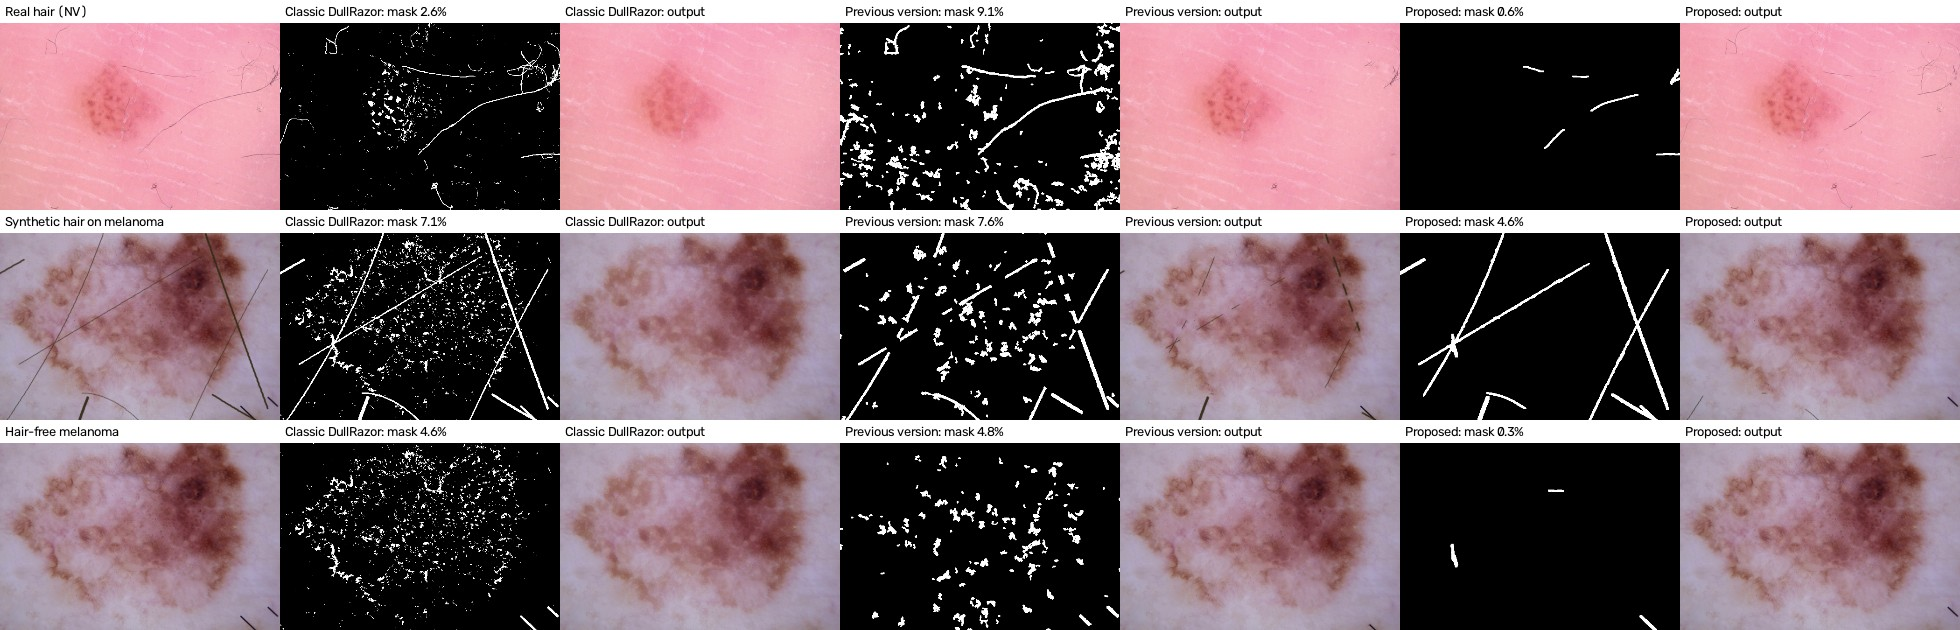
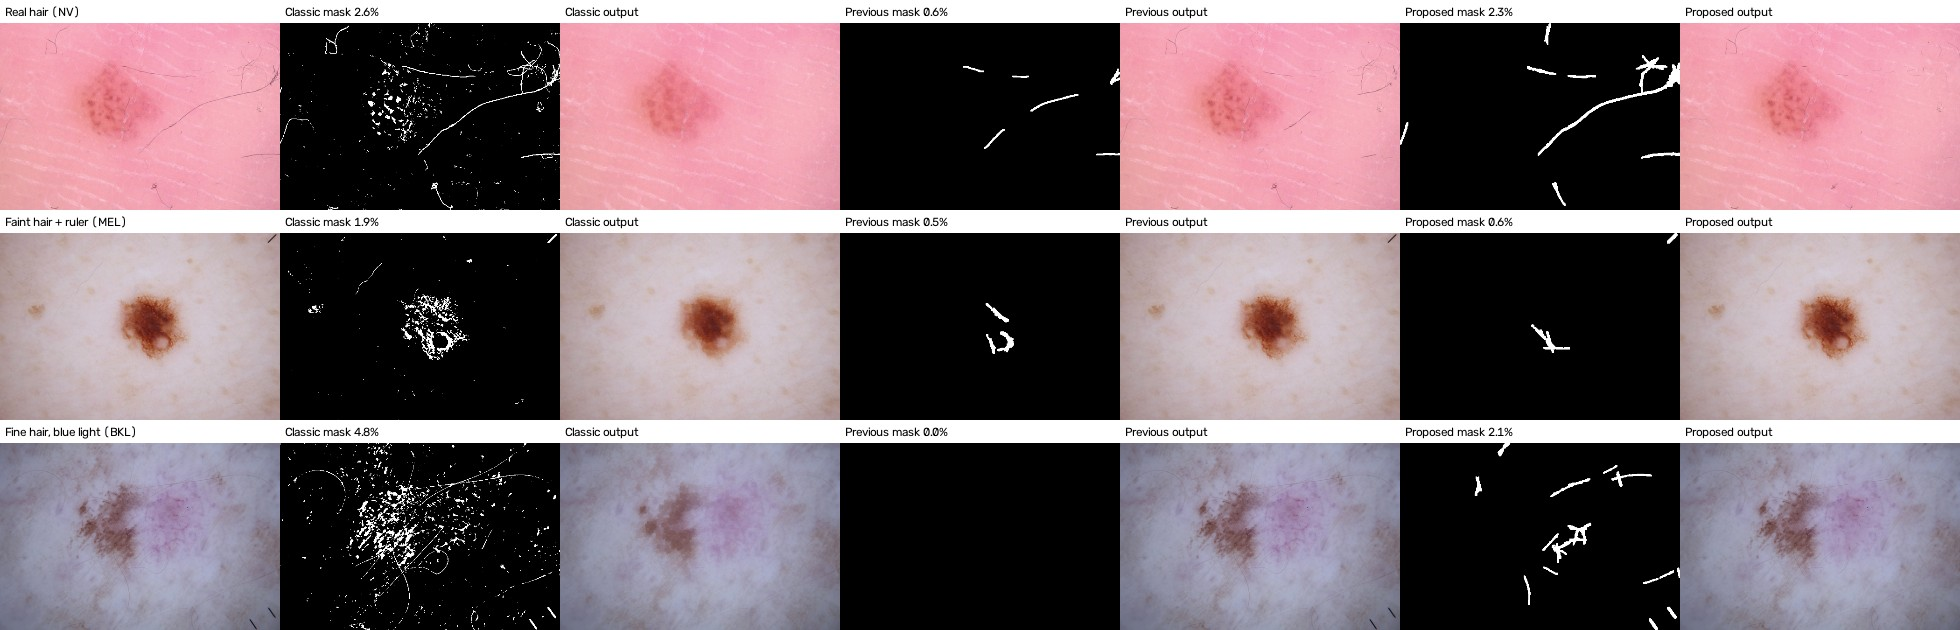
Fix false verification failures (blur/skin gate) and improve faint-hair detection with lesion protection

diff --git a/ml_pipeline/dullrazor.py b/ml_pipeline/dullrazor.py
@@ -19,83 +19,113 @@ except ImportError:
 import numpy as np
 
 
-def _line_kernel(length: int, angle_deg: float) -> np.ndarray:
-    """1-pixel-wide straight line structuring element of the given length and orientation."""
-    k = np.zeros((length, length), np.uint8)
-    c = length // 2
+
+
+# ─────────────────────────────────────────────────────────────────────────────
+# Structure-preserving DullRazor (v3)
+#   1. Rough lesion segmentation (vignetting-corrected Otsu) -> lesion is protected.
+#   2. Thin dark ridges: black-hat at 7x7 and 11x11.
+#   3. Adaptive threshold = median + 3 x MAD of the black-hat on surrounding skin (picks up faint hair
+#      on bright skin, ignores normal skin texture); stricter threshold inside the lesion.
+#   4. Oriented line opening (12 directions, 31 px): keeps only structures with a long straight run.
+#   5. Structures confined to the lesion are treated as lesion texture unless they contain a very long
+#      (63 px) straight run; hairs that cross the lesion continue onto skin and are kept.
+#   6. Dermatoscope ruler / scale marks in the image border are removed too.
+#   7. Telea inpainting at the original resolution; images with almost no hair are left untouched.
+# Benchmark: scripts/evaluate_hair_removal.py (synthetic hair at 4 contrast levels, see README there).
+# ─────────────────────────────────────────────────────────────────────────────
+def _line_kernel(length, angle_deg):
+    k = np.zeros((length, length), np.uint8); c = length // 2
     dx, dy = np.cos(np.deg2rad(angle_deg)) * c, np.sin(np.deg2rad(angle_deg)) * c
     cv2.line(k, (int(round(c - dx)), int(round(c - dy))), (int(round(c + dx)), int(round(c + dy))), 1, 1)
     return k
 
+def _line_open(binary, length, n_angles=12):
+    out = np.zeros_like(binary)
+    for a in np.arange(0, 180, 180.0 / n_angles):
+        out |= cv2.morphologyEx(binary, cv2.MORPH_OPEN, _line_kernel(length, a))
+    return out
 
-def apply_dullrazor(
-    img_bgr: np.ndarray,
-    inpaint_radius: int = 3,
-    thresh: int = 14,
-    line_len: int = 31,
-    n_angles: int = 12,
-    min_len: int = 30,
-    min_coverage: float = 0.0015,
-) -> tuple[np.ndarray, np.ndarray]:
-    """
-    Structure-preserving DullRazor (oriented line-opening variant).
+def lesion_mask(gray):
+    """Rough lesion segmentation used only to protect lesion texture from hair masking.
+    1) remove dermatoscope vignetting by dividing by a very smooth illumination estimate,
+    2) Otsu on the darker-than-skin map, 3) keep the most central large component not hugging the border."""
+    h, w = gray.shape
+    g = gray.astype(np.float32) + 1.0
+    illum = cv2.GaussianBlur(g, (0, 0), max(h, w) / 6.0)
+    dark = np.clip((1.0 - g / illum) * 255.0 + 128.0, 0, 255).astype(np.uint8)
+    dark = cv2.GaussianBlur(dark, (0, 0), 5)
+    _, m = cv2.threshold(dark, 0, 1, cv2.THRESH_BINARY + cv2.THRESH_OTSU)
+    m = cv2.morphologyEx(m.astype(np.uint8), cv2.MORPH_OPEN, cv2.getStructuringElement(cv2.MORPH_ELLIPSE, (9, 9)))
+    n, lab, st, cen = cv2.connectedComponentsWithStats(m)
+    best, best_score = 0, 0.0
+    for k in range(1, n):
+        x, y, ww, hh, area = st[k]
+        if area < 0.003 * h * w: continue
+        touches = (x == 0) + (y == 0) + (x + ww >= w) + (y + hh >= h)
+        dist = np.hypot(cen[k, 0] - w / 2, cen[k, 1] - h / 2) / np.hypot(w / 2, h / 2)
+        score = area * (1 - dist) / (1 + touches)
+        if score > best_score: best, best_score = k, score
+    if best == 0: return np.zeros_like(gray, bool)
+    les = (lab == best).astype(np.uint8)
+    les = cv2.morphologyEx(les, cv2.MORPH_CLOSE, cv2.getStructuringElement(cv2.MORPH_ELLIPSE, (25, 25)))
+    return cv2.dilate(les, cv2.getStructuringElement(cv2.MORPH_ELLIPSE, (31, 31))) > 0
 
-    Classic DullRazor (Lee et al., 1997) marks every thin dark structure as hair, so it also erases
-    pigment network, dots and globules inside the lesion — the features dermatologists use. This version:
-      1. Black-hat (11x11) on gray level -> candidate thin dark structures (classic DullRazor step).
-      2. Morphological opening of the candidates with 31-px line elements in 12 orientations: only
-         structures that contain a long straight run survive (hair). Pigment-network meshes, dots and
-         globules contain no such run and are rejected.
-      3. Constrained reconstruction (3x3) restores hair width/curvature; components spanning < 30 px dropped.
-      4. Hair-presence gate: if < 0.15 % of the image is hair, the image is returned unchanged.
-      5. Telea inpainting of the dilated hair mask at the original resolution.
-    Processing is done at <= 600 px so kernel sizes are resolution independent.
 
-    Synthetic-hair benchmark (scripts/evaluate_hair_removal.py, 150 cases on HAM10000 test images):
-    hair Dice 0.865 vs 0.607 (classic) and 0.377 (previous multi-angle version); restoration PSNR
-    38.5 dB vs 35.9 / 26.7 dB; lesion pixels altered on hair-free images 1.3 % vs 7.2 % / 9.3 %.
-
-    Returns: (hair_removed_image_bgr, binary_hair_mask)
-    """
-    if cv2 is None or img_bgr is None or img_bgr.size == 0:
-        mask = (
-            np.zeros((img_bgr.shape[0], img_bgr.shape[1]), dtype=np.uint8)
-            if img_bgr is not None
-            else np.zeros((1, 1), dtype=np.uint8)
-        )
-        return img_bgr, mask
-
+def apply_dullrazor(img_bgr, inpaint_radius=3, k_noise=3.0, line_len=31, lesion_line_len=45, min_coverage=0.0005, remove_ruler=True):
     h, w = img_bgr.shape[:2]
     s = min(1.0, 600.0 / max(h, w))
     work = cv2.resize(img_bgr, (round(w * s), round(h * s)), interpolation=cv2.INTER_AREA) if s < 1 else img_bgr
     gray = cv2.cvtColor(work, cv2.COLOR_BGR2GRAY)
-
-    # 1. Classic DullRazor candidate map
-    blackhat = cv2.morphologyEx(gray, cv2.MORPH_BLACKHAT, cv2.getStructuringElement(cv2.MORPH_RECT, (11, 11)))
-    cand = (blackhat > thresh).astype(np.uint8)
-
-    # 2. Oriented line opening: keep only structures with a long straight run
-    lines = np.zeros_like(cand)
-    for a in np.arange(0, 180, 180.0 / n_angles):
-        lines |= cv2.morphologyEx(cand, cv2.MORPH_OPEN, _line_kernel(line_len, a))
-
-    # 3. Constrained reconstruction + minimum span
+    les = lesion_mask(gray)
+    # thin dark ridges at two widths (fine vellus hair, thicker terminal hair)
+    bh = np.maximum(cv2.morphologyEx(gray, cv2.MORPH_BLACKHAT, cv2.getStructuringElement(cv2.MORPH_RECT, (7, 7))),
+                    cv2.morphologyEx(gray, cv2.MORPH_BLACKHAT, cv2.getStructuringElement(cv2.MORPH_RECT, (11, 11))))
+    bh = cv2.GaussianBlur(bh, (3, 3), 0)
+    # adaptive threshold from the noise level of the surrounding skin (robust: median + k * MAD)
+    skin = bh[~les] if (~les).sum() > 1000 else bh.ravel()
+    med = np.median(skin); mad = np.median(np.abs(skin - med)) * 1.4826 + 1e-6
+    t_skin = max(4.0, med + k_noise * mad)
+    t_les = max(8.0, t_skin * 1.3)                                    # stricter inside the lesion
+    cand_skin = ((bh > t_skin) & ~les).astype(np.uint8)
+    cand_les = ((bh > t_les) & les).astype(np.uint8)
+    # keep structures that contain a long straight run (hair); pigment network and dots do not
+    lines = _line_open(cand_skin, line_len) | _line_open(cand_les, lesion_line_len)
+    cand = cand_skin | cand_les
     mask = cv2.dilate(lines, np.ones((3, 3), np.uint8)) & cand
-    n, lab, st, _ = cv2.connectedComponentsWithStats(mask, connectivity=8)
-    span = np.maximum(st[:, cv2.CC_STAT_WIDTH], st[:, cv2.CC_STAT_HEIGHT])
-    span[0] = 0
-    mask = (span >= min_len)[lab].astype(np.uint8) * 255
-
-    # 4. Hair-presence gate
-    if mask.mean() / 255.0 < min_coverage:
+    # group pieces of the same hair that are separated by short low-contrast gaps (e.g. at the lesion edge)
+    _, lab = cv2.connectedComponents(cv2.dilate(mask, np.ones((9, 9), np.uint8)), connectivity=8)
+    lab = lab * (mask > 0)
+    n = lab.max() + 1
+    st = np.zeros((n, 5), np.int64)
+    ys, xs = np.nonzero(lab)
+    if len(ys):
+        L = lab[ys, xs]
+        st[:, 4] = np.bincount(L, minlength=n)
+        for arr, i in ((xs, 2), (ys, 3)):
+            mx = np.full(n, -1); mn = np.full(n, 1 << 30)
+            np.maximum.at(mx, L, arr); np.minimum.at(mn, L, arr)
+            st[:, i] = np.where(mx >= 0, mx - mn + 1, 0)
+    span = np.maximum(st[:, cv2.CC_STAT_WIDTH], st[:, cv2.CC_STAT_HEIGHT]); span[0] = 0
+    # a structure lying (almost) entirely inside the lesion is lesion texture, not hair: hairs that cross
+    # the lesion always continue onto the surrounding skin
+    outside = np.bincount(lab[~les], minlength=n) / np.maximum(st[:, cv2.CC_STAT_AREA], 1)
+    # ...unless it contains a very long straight run (>= 2 x line_len), which pigment structures never do
+    very_long = np.bincount(lab[_line_open(cand, 2 * line_len + 1) > 0], minlength=n) > 0
+    mask = ((span >= line_len) & ((outside >= 0.25) | very_long))[lab].astype(np.uint8)
+    # dermatoscope ruler / scale marks: short, high-contrast straight bars in the outer 12 % border band
+    bw = int(0.12 * min(gray.shape))
+    border = np.zeros_like(mask); border[:bw] = 1; border[-bw:] = 1; border[:, :bw] = 1; border[:, -bw:] = 1
+    ruler = _line_open(((bh > 25) & (border > 0)).astype(np.uint8), 15)
+    if remove_ruler:
+        mask = mask | (cv2.dilate(ruler, np.ones((3, 3), np.uint8)) & (bh > 12))
+    mask = mask.astype(np.uint8) * 255
+    if mask.mean() / 255 < min_coverage:
         return img_bgr.copy(), np.zeros((h, w), np.uint8)
-
-    # 5. Inpaint at original resolution
     mask = cv2.dilate(mask, np.ones((3, 3), np.uint8))
-    if s < 1:
-        mask = cv2.resize(mask, (w, h), interpolation=cv2.INTER_NEAREST)
-    radius = max(inpaint_radius, int(round(inpaint_radius / s)))
-    return cv2.inpaint(img_bgr, mask, radius, cv2.INPAINT_TELEA), mask
+    if s < 1: mask = cv2.resize(mask, (w, h), interpolation=cv2.INTER_NEAREST)
+    r = max(inpaint_radius, int(round(inpaint_radius / s)))
+    return cv2.inpaint(img_bgr, mask, r, cv2.INPAINT_TELEA), mask
 
 
 def calculate_ita(img_bgr: np.ndarray) -> float:
@@ -213,18 +243,8 @@ def calibrate_asian_skin_tone(img_bgr: np.ndarray) -> np.ndarray:
     return cv2.cvtColor(lab.astype(np.uint8), cv2.COLOR_LAB2BGR)
 
 
-def check_skin_and_quality(img_bgr: np.ndarray) -> tuple[bool, float, float, float, str]:
-    """
-    Real-World Skin & Quality Verification Gate (OOD Check):
-    1. Inclusive Asian / South Asian Skin Chromaticity Check (YCrCb + HSV)
-    2. Blur & Focus Check (Laplacian Variance)
-    
-    Returns: (is_valid, skin_coverage_pct, blur_score, ita, status_message)
-    """
-    if cv2 is None or img_bgr is None or img_bgr.size == 0:
-        return False, 0.0, 0.0, 0.0, "Invalid image data"
-
-    h, w = img_bgr.shape[:2]
+def _skin_pixels(img_bgr: np.ndarray) -> np.ndarray:
+    """YCrCb + HSV skin-colour test (ranges widened for Asian / South Asian skin tones)."""
     # YCrCb ranges widened for Asian/South Asian skin tones: Cr in [130, 180], Cb in [75, 135]
     ycrcb = cv2.cvtColor(img_bgr, cv2.COLOR_BGR2YCrCb)
     skin_ycrcb = (
@@ -243,30 +263,63 @@ def check_skin_and_quality(img_bgr: np.ndarray) -> tuple[bool, float, float, flo
         & (hsv[:, :, 2] >= 40)
     )
 
-    combined_skin = skin_ycrcb | skin_hsv
+    return skin_ycrcb | skin_hsv
+
+
+def check_skin_and_quality(img_bgr: np.ndarray) -> tuple[bool, float, float, float, str]:
+    """
+    Real-World Skin & Quality Verification Gate (OOD Check):
+    1. Inclusive Asian / South Asian Skin Chromaticity Check (YCrCb + HSV)
+    2. Blur & Focus Check (Laplacian Variance)
+    
+    Returns: (is_valid, skin_coverage_pct, blur_score, ita, status_message)
+    """
+    if cv2 is None or img_bgr is None or img_bgr.size == 0:
+        return False, 0.0, 0.0, 0.0, "Invalid image data"
+
+    h, w = img_bgr.shape[:2]
+    original_bgr = img_bgr
+    # Dermatoscopes and phones add strong colour casts (e.g. blue-grey polarised light), so the skin-colour
+    # test runs on a white-balanced copy (Shades of Gray) rather than on the raw pixels.
+    img_bgr = apply_shades_of_gray(img_bgr, p=6)
+    # Skin pixels in the raw image OR in a white-balanced copy (dermatoscopes and phones can add strong
+    # colour casts, e.g. blue-grey polarised light, that hide genuine skin colour)
+    combined_skin = _skin_pixels(original_bgr) | _skin_pixels(img_bgr)
     skin_coverage_pct = float(np.mean(combined_skin) * 100.0)
 
-    # Blur check
-    gray = cv2.cvtColor(img_bgr, cv2.COLOR_BGR2GRAY)
+    # Blur check: Laplacian variance measured at a fixed working size (longest side 600 px), because the
+    # score depends on resolution. Dermoscopy images are naturally smooth: on HAM10000 test images the
+    # score is ~20-100, while the same images blurred with a Gaussian of sigma 1-2 px drop to ~2-12.
+    gray = cv2.cvtColor(original_bgr, cv2.COLOR_BGR2GRAY)
+    sc = min(1.0, 600.0 / max(h, w))
+    if sc < 1.0:
+        gray = cv2.resize(gray, (round(w * sc), round(h * sc)), interpolation=cv2.INTER_AREA)
     blur_score = float(cv2.Laplacian(gray, cv2.CV_64F).var())
 
     # ITA
-    ita = calculate_ita(img_bgr)
+    ita = calculate_ita(original_bgr)
     fitzpatrick = classify_fitzpatrick(ita)
 
     is_valid = True
     reasons = []
 
-    if skin_coverage_pct < 25.0:
+    # Non-skin photos (objects, documents, sky) score ~0 %; dermoscopy under coloured light can score 25-40 %.
+    if skin_coverage_pct < 15.0:
         is_valid = False
-        reasons.append(f"Insufficient skin pixels ({skin_coverage_pct:.1f}% < 25%)")
+        reasons.append(f"Insufficient skin pixels ({skin_coverage_pct:.1f}% < 15%)")
 
-    if blur_score < 45.0:
+    BLUR_REJECT, BLUR_WARN = 6.0, 15.0
+    soft_focus = False
+    if blur_score < BLUR_REJECT:
         is_valid = False
-        reasons.append(f"Image is out of focus / blurry (blur index {blur_score:.1f} < 45.0)")
+        reasons.append(f"Image is out of focus / blurry (blur index {blur_score:.1f} < {BLUR_REJECT})")
+    elif blur_score < BLUR_WARN:
+        soft_focus = True
 
     if is_valid:
         status_msg = f"Passed Skin & Quality Verification (Fitzpatrick Type {fitzpatrick}, ITA {ita:.1f}°)"
+        if soft_focus:
+            status_msg += f" — note: slightly soft focus (blur index {blur_score:.1f}); a sharper photo is recommended"
     else:
         status_msg = "Verification Failed: " + ", ".join(reasons)
 

diff --git a/scripts/evaluate_hair_removal.py b/scripts/evaluate_hair_removal.py
@@ -1,69 +1,53 @@
 """
-Quantitative evaluation of hair removal (answers "how accurate is DullRazor?").
+Quantitative hair-removal benchmark (answers "how accurate is the DullRazor step?").
 
-Hair-free dermoscopy images get synthetic hairs with a KNOWN mask (random Bezier curves, 1-3 px,
-dark brown/black, anti-aliased). Each method is scored on:
-  recall / precision / dice  - how well the hair mask matches the true hair pixels (2-px tolerance for precision)
-  psnr / ssim                - how close the restored image is to the original hair-free image
-  psnr_hair                  - PSNR on the hair pixels only (quality of inpainting)
-  clean_masked_pct           - % of pixels marked as hair on the ORIGINAL images (lesion texture wrongly removed)
-  clean_ssim                 - how much the ORIGINAL images are altered (1.0 = untouched)
+Synthetic hairs with a KNOWN mask (random curved strokes, 1-3 px wide) are drawn on real dermoscopy
+images at four contrast levels: the hair darkens the skin by 8 %, 15 %, 30 % or 70 % (8 % = faint vellus
+hair, 70 % = dark terminal hair). For each method we report:
+  recall per contrast level - fraction of true hair pixels detected
+  prec / dice               - mask precision (2-px tolerance) and Dice overlap
+  PSNR gain                 - improvement of the restored image over the hairy input (vs. the hair-free original)
+  lesion                    - % of lesion pixels altered on the ORIGINAL hair-free images (lesion texture destroyed)
+Limitations: synthetic hair; scale/ruler marks present in the originals count as false positives.
 
-Usage:  python scripts/evaluate_hair_removal.py <folder_of_jpgs> <cases_per_image> classic new
+Usage:  python scripts/evaluate_hair_removal.py <seed> <folder_with_jpgs>
 """
-import sys, glob, os, numpy as np, cv2, importlib, json
+import sys, glob, os, numpy as np, cv2, importlib
 from skimage.metrics import structural_similarity as ssim, peak_signal_noise_ratio as psnr
 sys.path.insert(0, os.path.join(os.path.dirname(os.path.abspath(__file__)), '..'))
-from ml_pipeline.dullrazor import apply_dullrazor as structure_preserving
-rng = np.random.default_rng(int(os.environ.get("SEED","0")))
-
-def classic(img, r=2):
-    g = cv2.cvtColor(img, cv2.COLOR_BGR2GRAY)
-    bh = cv2.morphologyEx(g, cv2.MORPH_BLACKHAT, cv2.getStructuringElement(cv2.MORPH_RECT, (9, 9)))
-    _, m = cv2.threshold(bh, 10, 255, cv2.THRESH_BINARY)
-    return cv2.inpaint(img, m, r, cv2.INPAINT_TELEA), m
-
-def add_hair(img, n, rng):
-    h, w = img.shape[:2]
-    alpha = np.zeros((h, w), np.float32)
+from ml_pipeline import dullrazor as dr_v3
+def add_hair(img, n, rng, darken):
+    h, w = img.shape[:2]; alpha = np.zeros((h, w), np.float32)
     for _ in range(n):
         p0 = rng.uniform([0, 0], [w, h]); ang = rng.uniform(0, np.pi); L = rng.uniform(0.3, 1.0) * max(h, w)
-        p2 = p0 + L * np.array([np.cos(ang), np.sin(ang)]); p1 = (p0 + p2) / 2 + rng.normal(0, L * 0.15, 2)
-        t = np.linspace(0, 1, 200)[:, None]
-        pts = ((1 - t) ** 2 * p0 + 2 * (1 - t) * t * p1 + t ** 2 * p2).astype(np.int32)
-        layer = np.zeros((h, w), np.uint8)
-        cv2.polylines(layer, [pts], False, 255, int(rng.integers(1, 4)), cv2.LINE_AA)
-        alpha = np.maximum(alpha, layer / 255.0 * rng.uniform(0.8, 1.0))
+        p2 = p0 + L * np.array([np.cos(ang), np.sin(ang)]); p1 = (p0 + p2) / 2 + rng.normal(0, L * 0.2, 2)
+        t = np.linspace(0, 1, 200)[:, None]; pts = ((1-t)**2*p0 + 2*(1-t)*t*p1 + t**2*p2).astype(np.int32)
+        layer = np.zeros((h, w), np.uint8); cv2.polylines(layer, [pts], False, 255, int(rng.integers(1, 4)), cv2.LINE_AA)
+        alpha = np.maximum(alpha, layer / 255.0)
     alpha = cv2.GaussianBlur(alpha, (3, 3), 0.6)
-    col = np.array([rng.uniform(15, 45), rng.uniform(20, 50), rng.uniform(25, 60)])
-    out = img * (1 - alpha[..., None]) + col * alpha[..., None]
-    return out.clip(0, 255).astype(np.uint8), (alpha > 0.3)
-
-def evaluate(fn, cases, clean_imgs):
-    D, P, Rc, PS, SS, PSh = [], [], [], [], [], []
-    for clean, hairy, gt in cases:
-        out, m = fn(hairy); m = m > 0
-        tol = cv2.dilate(gt.astype(np.uint8), np.ones((5, 5), np.uint8)) > 0   # 2-px tolerance for precision
-        tp_r = (m & gt).sum() / max(gt.sum(), 1); tp_p = (m & tol).sum() / max(m.sum(), 1)
-        Rc.append(tp_r); P.append(tp_p); D.append(2 * tp_p * tp_r / max(tp_p + tp_r, 1e-9))
-        PS.append(psnr(clean, out, data_range=255)); SS.append(ssim(clean, out, channel_axis=2, data_range=255))
-        PSh.append(psnr(clean[gt], out[gt], data_range=255))
-    fp, fs = [], []
-    for c in clean_imgs:
-        out, m = fn(c); fp.append((m > 0).mean() * 100); fs.append(ssim(c, out, channel_axis=2, data_range=255))
-    return dict(recall=np.mean(Rc), precision=np.mean(P), dice=np.mean(D), psnr=np.mean(PS), ssim=np.mean(SS),
-                psnr_hair=np.mean(PSh), clean_masked_pct=np.mean(fp), clean_ssim=np.mean(fs))
-
-imgs = [cv2.imread(f) for f in sorted(glob.glob(sys.argv[1] + '/*.jpg'))]
-cases = []
-for im in imgs:
-    for k in range(int(sys.argv[2])):
-        hairy, gt = add_hair(im, int(rng.integers(3, 15)), rng); cases.append((im, hairy, gt))
-base = dict(psnr=np.mean([psnr(c, h, data_range=255) for c, h, _ in cases]), ssim=np.mean([ssim(c, h, channel_axis=2, data_range=255) for c, h, _ in cases]))
-print(f"{len(cases)} synthetic-hair cases on {len(imgs)} images | no removal: PSNR {base['psnr']:.2f} SSIM {base['ssim']:.4f}")
-res = {}
-for name in (sys.argv[3:] or ['classic', 'new']):
-    fn = classic if name == 'classic' else structure_preserving
-    r = evaluate(fn, cases, imgs); res[name] = r
-    print(f"{name:12s} " + " ".join(f"{k} {v:.3f}" for k, v in r.items()))
-json.dump({k: {a: float(b) for a, b in v.items()} for k, v in res.items()} | {'baseline': {k: float(v) for k, v in base.items()}}, open('hair_removal_benchmark.json', 'w'), indent=1)
+    out = img * (1 - darken * alpha[..., None])                     # hair = skin darkened by `darken`
+    return out.clip(0, 255).astype(np.uint8), alpha > 0.3
+def classic(img):
+    g=cv2.cvtColor(img,cv2.COLOR_BGR2GRAY); bh=cv2.morphologyEx(g,cv2.MORPH_BLACKHAT,cv2.getStructuringElement(cv2.MORPH_RECT,(9,9)))
+    _,m=cv2.threshold(bh,10,255,cv2.THRESH_BINARY); return cv2.inpaint(img,m,2,cv2.INPAINT_TELEA),m
+methods={'classic':classic, 'proposed':dr_v3.apply_dullrazor}
+imgs=[cv2.imread(f) for f in sorted(glob.glob(os.path.join(sys.argv[2] if len(sys.argv) > 2 else 'demo_images', '*.jpg')))]
+les=[dr_v3.lesion_mask(cv2.cvtColor(i,cv2.COLOR_BGR2GRAY)) for i in imgs]
+rng=np.random.default_rng(int(sys.argv[1]))
+levels=[0.08,0.15,0.3,0.7]
+cases={d:[] for d in levels}
+for d in levels:
+    for im in imgs:
+        for _ in range(6): cases[d].append((im,)+add_hair(im,int(rng.integers(3,12)),rng,d))
+print('recall per hair darkness (8%,15%,30%,70%) | precision | dice | PSNR gain | lesion px altered on hair-free imgs')
+for name,fn in methods.items():
+    R=[];Pall=[];Dall=[];G=[]
+    for d in levels:
+        rr=[]
+        for clean,hairy,gt in cases[d]:
+            out,m=fn(hairy); m=m>0; tol=cv2.dilate(gt.astype(np.uint8),np.ones((5,5),np.uint8))>0
+            r=(m&gt).sum()/max(gt.sum(),1); p=(m&tol).sum()/max(m.sum(),1); rr.append(r); Pall.append(p); Dall.append(2*p*r/max(p+r,1e-9))
+            G.append(psnr(clean,out,data_range=255)-psnr(clean,hairy,data_range=255))
+        R.append(np.mean(rr))
+    lp=np.mean([((fn(i)[1]>0)&l).sum()/max(l.sum(),1)*100 for i,l in zip(imgs,les)])
+    print(f"{name:8s} recall {' '.join('%.2f'%x for x in R)} | prec {np.mean(Pall):.2f} | dice {np.mean(Dall):.2f} | PSNR +{np.mean(G):.1f} dB | lesion {lp:.2f}%")
